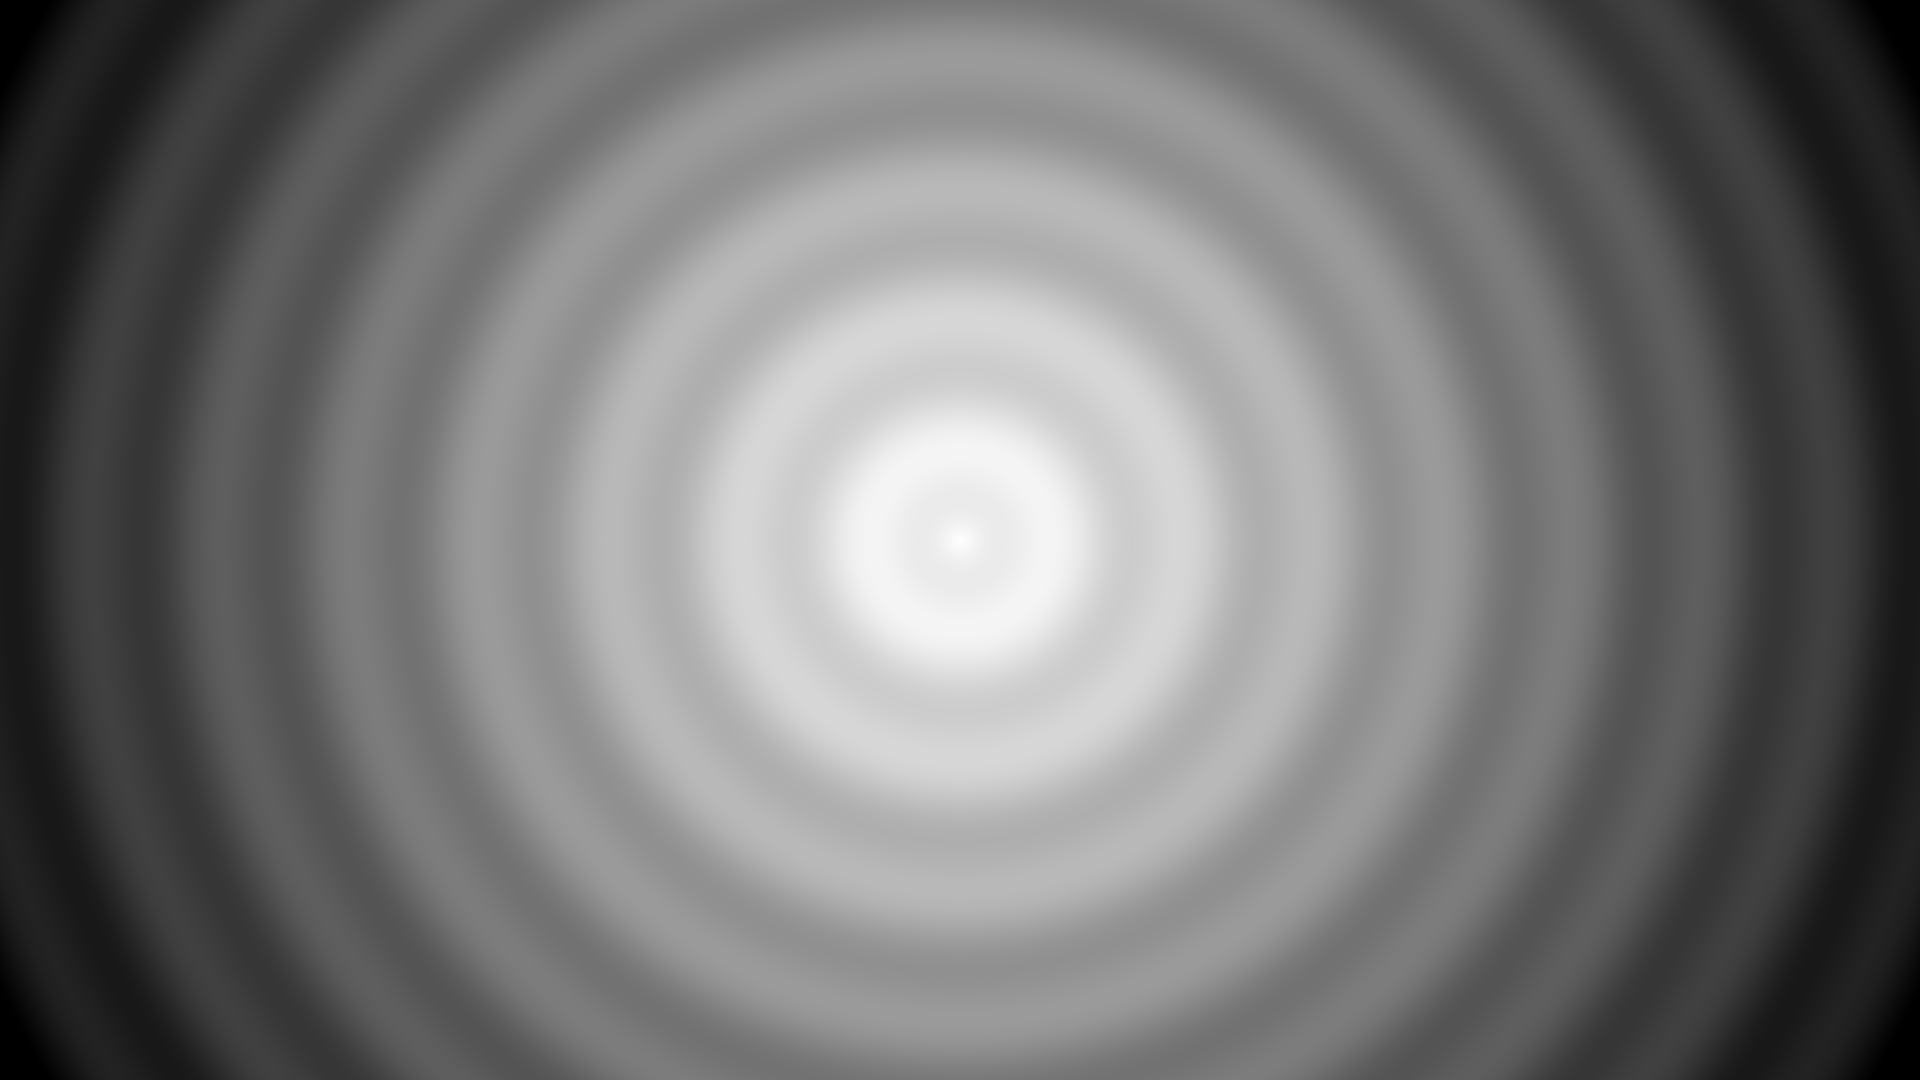
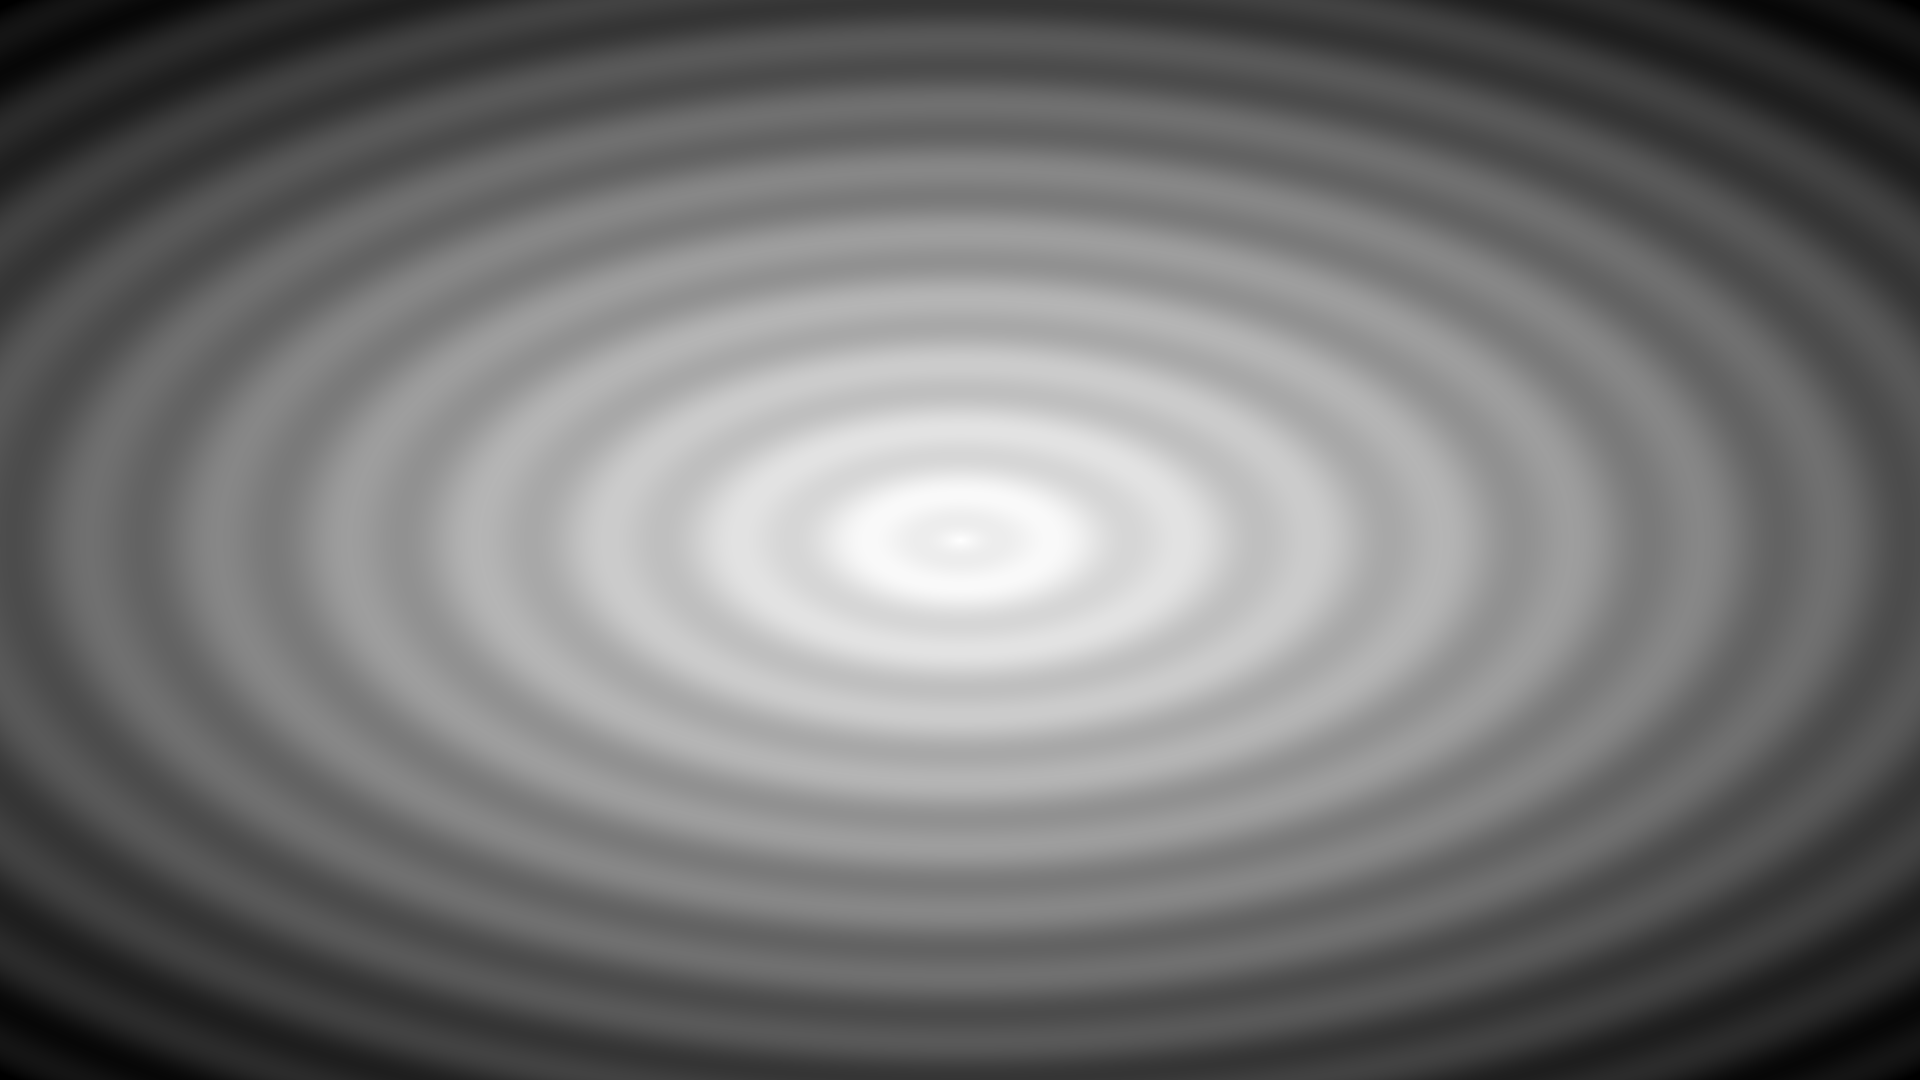
修二周目视频黑屏；涟漪改斜视角 + 真实波包模型
- polyhedron channel 重启挪到 label start（Movie 即将显示前的唯一可靠时机）：
  旧修法在主菜单 mount 时重启，靠的是菜单本身显示着 Movie、channel 有消费者；
  sea.png 菜单没有消费者，重启完到第二次进序章照样是坏的。主菜单现在只 stop
  （省一路没人看的解码）；after_load 对停在多面体场景的存档补重启；
  splashscreen 不再预热
- 涟漪斜视角：u_ripple_tilt = 1/sin(视角)，2.0 ≈ 30° 俯视，同心圆压成横椭圆，
  纵向位移同步透视压缩；ripple_wipe.png 用同一椭圆度量重生成（WIPE_TILT）
- 涟漪波形按 gravity-capillary ring wave packet 重写：高斯环形波包外推
  （包内水面回平、包外未扰动），相速 > 群速（波峰后缘冒出前缘消失），
  chirp 色散（外圈波长长），1/sqrt(r) 能量摊薄，中心小半径高强度"扑通"+
  迟发的次波包（rebound jet），±15% 角向不均；birth 门控保证菜单待机 t=0
  时画面纹丝不动
- RIPPLE_* shader 参数收敛为 shaders.rpy 单一数据源，menu_ripple 与
  screen_ripple 共同引用，接力两侧不可能漂移

diff --git a/generate_ripple_assets.py b/generate_ripple_assets.py
@@ -29,6 +29,11 @@ SCREEN_W, SCREEN_H = 1920, 1080
 WIPE_RIPPLE_AMP = 0.045
 WIPE_RIPPLE_WAVELENGTH = 130.0
 
+## 斜视角系数 = 1/sin(视角)。必须和 shader 侧的 u_ripple_tilt（shaders.rpy 的
+## screen_ripple + screens.rpy 的 menu_ripple）一致：荡漾的椭圆和转场揭开的
+## 椭圆要是同一套，2.0 = 约 30° 俯视（纵向压成一半）。
+WIPE_TILT = 2.0
+
 def _write(img, name):
     path = os.path.join(OUT_DIR, name)
     img.save(path)
@@ -37,20 +42,21 @@ def _write(img, name):
 
 
 def make_wipe():
-    """中心白 → 四角黑的径向斜坡，叠加正弦环。
+    """中心白 → 四角黑的径向斜坡（斜视角椭圆度量），叠加正弦环。
 
-    归一化用的是"中心到角"的距离而不是到边的距离 —— 用后者的话四个角永远到不了
-    纯黑，斜坡在角上被截断，转场收尾时角落的时序会和别处不一致。
+    dy 乘 WIPE_TILT = 等值线是纵向压扁的椭圆，跟 shader 里的涟漪同一套投影。
+    归一化用的是"中心到角"的距离（同一椭圆度量）而不是到边的距离 —— 用后者的
+    话四个角永远到不了纯黑，斜坡在角上被截断，转场收尾时角落的时序会不一致。
     """
     w, h = SCREEN_W, SCREEN_H
     cx, cy = w / 2.0, h / 2.0
-    max_r = math.hypot(cx, cy)
+    max_r = math.hypot(cx, cy * WIPE_TILT)
 
     img = Image.new("L", (w, h))
     px = img.load()
 
     for y in range(h):
-        dy = y - cy
+        dy = (y - cy) * WIPE_TILT
         for x in range(w):
             r = math.hypot(x - cx, dy)
             v = r / max_r
